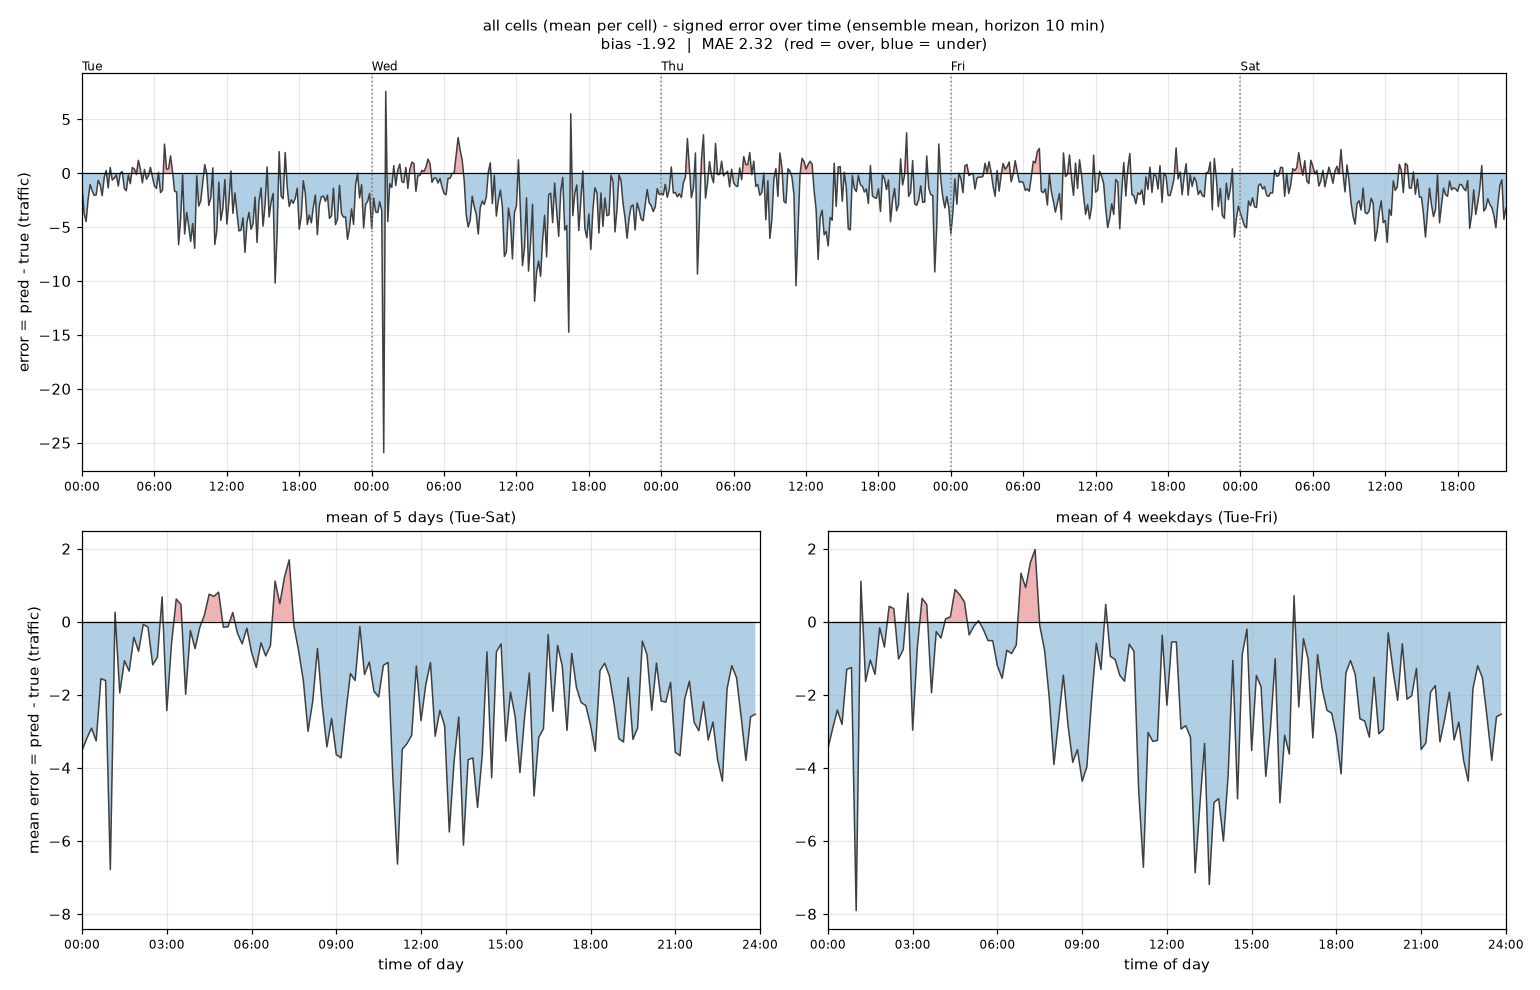
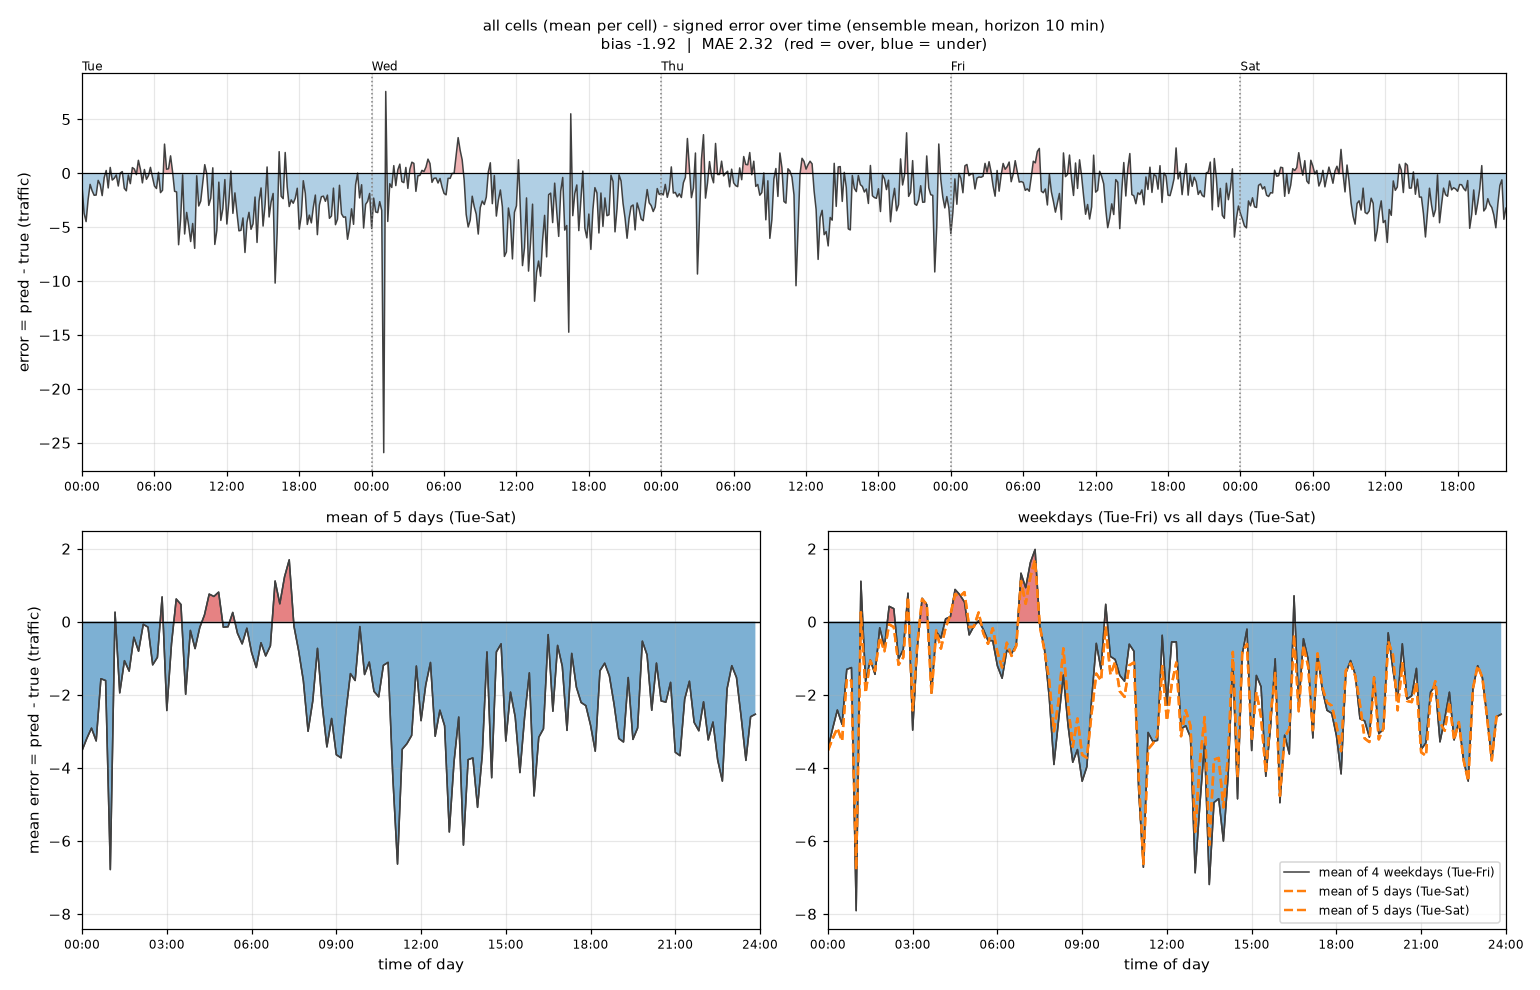
New plot

diff --git a/plot_signed_error.py b/plot_signed_error.py
@@ -148,13 +148,29 @@ def main():
     all_names = f"{WEEKDAYS[dow[0]]}-{WEEKDAYS[dow[-1]]}"
     for ax, m, title in [(ax_a, mean_all, f"mean of {len(days)} days ({all_names})"),
                          (ax_w, mean_wd, f"mean of {int(is_wd.sum())} weekdays ({wd_names})")]:
-        signed_fill(ax, xs, m)
-        ax.set_xlim(0, 24)
-        ax.set_xticks(range(0, 25, 3))
-        ax.set_xticklabels([f"{t:02d}:00" for t in range(0, 25, 3)], fontsize=8)
-        ax.set_xlabel("time of day")
-        ax.set_title(title, fontsize=10)
-    ax_a.set_ylabel("mean error = pred - true (traffic)")
+        xs = np.arange(STEPS_PER_DAY) * STEP_H
+        wd_names = f"{WEEKDAYS[dow[is_wd][0]]}-{WEEKDAYS[dow[is_wd][-1]]}"
+        all_names = f"{WEEKDAYS[dow[0]]}-{WEEKDAYS[dow[-1]]}"
+        n_days, n_wd = len(days), int(is_wd.sum())
+
+        # left: mean over all days
+        signed_fill(ax_a, xs, mean_all)
+        ax_a.set_title(f"mean of {n_days} days ({all_names})", fontsize=10)
+
+        # right: mean over weekdays, with the all-days mean overlaid for comparison
+        signed_fill(ax_w, xs, mean_wd)
+        ax_w.lines[0].set_label(f"mean of {n_wd} weekdays ({wd_names})")
+        ax_w.plot(xs, mean_all, color="tab:orange", lw=1.6, ls="--",
+                  label=f"mean of {n_days} days ({all_names})")
+        ax_w.set_title(f"weekdays ({wd_names}) vs all days ({all_names})", fontsize=10)
+        ax_w.legend(fontsize=8, loc="best")
+
+        for ax in (ax_a, ax_w):
+            ax.set_xlim(0, 24)
+            ax.set_xticks(range(0, 25, 3))
+            ax.set_xticklabels([f"{t:02d}:00" for t in range(0, 25, 3)], fontsize=8)
+            ax.set_xlabel("time of day")
+        ax_a.set_ylabel("mean error = pred - true (traffic)")
 
     for name, m in [("all days", mean_all), ("weekdays", mean_wd)]:
         w = int(np.nanargmax(np.abs(m)))
